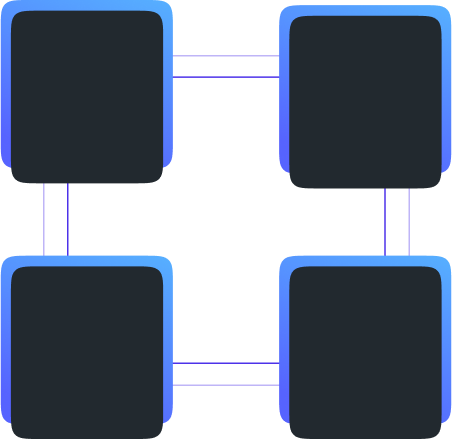
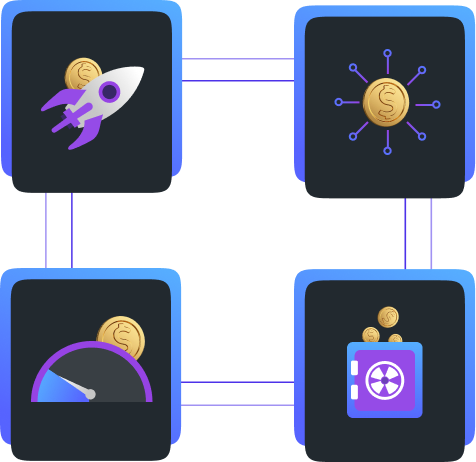
update content and images

diff --git a/homeDemo.html b/homeDemo.html
@@ -310,49 +310,49 @@
        <div class="gateWay_flex">
          <div class="gateWay_flex_inner">
              <div>
-              <div class="gateWay_flex_inner_header_18">Mobile Gateway to DeFi Investment</div>
-              <div class="line_height_25">Explore top crypto assets and find the best DeFi opportunities aggregated through one easy-to-use interface</div>
+              <div class="gateWay_flex_inner_header_16">One stop solution for DeFi investment</div>
+              <div class="line_height_25">Explore top crypto assets and find  best DeFi opportunities aggregated through one easy-to-use interface</div>
              </div>
              <div class="mt_80">
-              <div class="gateWay_flex_inner_header_18">Educated & Risk Assesed Positions </div>
-              <div class="line_height_25">With an in-app guide, take educated yield-farming decisions with facts and strategy mechanics explained.</div>
+              <div class="gateWay_flex_inner_header_16">Educated & risk-assesed positions </div>
+              <div class="line_height_25">With the in-app guide, take educated yield-farming decisions with strategy mechanicm and risks explained</div>
              </div>
          </div>
          <div class="gateWay_flex_inner"><img src="assets/images/mobile_gateway.png"></div>
          <div class="gateWay_flex_inner">
           <div>
-            <div class="gateWay_flex_inner_header_18">Marketplace for advance strategies</div>
+            <div class="gateWay_flex_inner_header_16">Marketplace for advance strategies</div>
             <div class="line_height_25">A marketplace for advanced algorithms operating cross-chain to unleash the true potential of yield farming.</div>
            </div>
            <div class="mt_80">
-            <div class="gateWay_flex_inner_header_18">Your funds always in your control </div>
-            <div class="line_height_25">Keep full custody of your cryptos even when generating yield; censorship-resistant and free of custodian mishaps.</div>
+            <div class="gateWay_flex_inner_header_16">Bridging to DeFi safely and seamlessly</div>
+            <div class="line_height_25">With vetted protocols, biometric auto-recovery wallet, built-in fiat ramp & cross-chain asset swaps; it is DeFi minus complexity</div>
            </div>
         </div>
        </div>
        <div class="gateWay_flex_mobile">
           <div class="gateWay_flex_mobile_inner mb-5">
             <div class="mb-3"><img src="assets/images/mbl_sec_sample.webp" class="wdt_90"></div>
-            <div class="list_header mb-2">Mobile Gateway to DeFi Investment</div>
-            <div>Explore top crypto assets and find the best DeFi opportunities aggregated through one easy-to-use interface.
+            <div class="list_header mb-2">One stop solution for DeFi investment</div>
+            <div>Explore top crypto assets and find  best DeFi opportunities aggregated through one easy-to-use interface
             </div>
           </div>
           <div class="gateWay_flex_mobile_inner mb-5">
             <div class="mb-3"><img src="assets/images/mbl_sec_sample.webp" class="wdt_90"></div>
-            <div class="list_header mb-2">Educated & Risk Assesed Positions</div>
-            <div>With an in-app guide, take educated yield-farming decisions with facts and strategy mechanics explained.
+            <div class="list_header mb-2">Educated & risk-assesed positions </div>
+            <div>With the in-app guide, take educated yield-farming decisions with strategy mechanicm and risks explained
             </div>
           </div>
           <div class="gateWay_flex_mobile_inner">
             <div class="mb-3"><img src="assets/images/mbl_sec_sample.webp" class="wdt_90"></div>
             <div class="list_header mb-2">Marketplace for advance strategies</div>
-            <div>A marketplace for advanced algorithms operating cross-chain to unleash the true potential of yield farming.
+            <div>A marketplace for advanced algorithms operating cross-chain to unleash the true potential of yield farming
             </div>
           </div>
           <div class="gateWay_flex_mobile_inner">
             <div class="mb-3"><img src="assets/images/mbl_sec_sample.webp" class="wdt_90"></div>
-            <div class="list_header mb-2">Your funds always in your control</div>
-            <div>Keep full custody of your cryptos even when generating yield; censorship-resistant and free of custodian mishaps.
+            <div class="list_header mb-2">Bridging to DeFi safely and seamlessly</div>
+            <div>With vetted protocols, biometric auto-recovery wallet, built-in fiat ramp & cross-chain asset swaps; it is DeFi minus complexity
             </div>
           </div>
        </div>
@@ -362,7 +362,7 @@
 
     
     <!-- START SECTION SERVICES -->
-    <section id="investment">
+    <section id="investment" class="mt_100">
       <div class="custom-container">
         <!-- <div class="header_txt text-center">
           DeFi investment accessible to all
@@ -379,9 +379,9 @@
             <div>
               <div class="list_inner">
                 <div>
-                  <div class="section_subheader mb-2">Earn up to 21% on stablecoins</div>
+                  <div class="section_subheader mb-2">Earn up to 21% APY on your stablecoins</div>
                   <div class="mb-4">
-                    Maximize your return on stablecoins with advanced yield strategies. Withdraw anytime to your bank account.
+                    Maximize your return on stablecoins (USDT & USDC) with advanced yield strategies. Withdraw anytime to your bank account.
                   </div>
                   <div class="button_align">
                 
@@ -394,9 +394,8 @@
             </div>
           </div>
           <div class="col-lg-6 col-md-12 col-sm-12">
-            <div class="text-center">
-              <img
-                class="abt_img"
+            <div class="text-right">
+              <img class="aboutimg2"
                 src="assets/images/about_img2.png"
                 alt="aboutimg2"
               />
@@ -411,7 +410,7 @@
     <section id="investment">
       <div class="custom-container">
         <div class="section_subheader text-center section_subheader_res mb_100">
-          Simple Solution, Higher Returns
+          Upcoming Offerings
         </div>
         <div class="slnc_mobile">
           <div class="row align-items-center product_listing_backgrnd mb_100">
@@ -419,8 +418,8 @@
               <div>
                 <div class="product_list_inner">
                   <div>
-                    <div class="mb-2 gradient_txt"><span class="section_subheader">RAFT</span><span class="list_header ml-3">Crypto Wallet and Yield Protocols Marketplace</span></div>
-                    <div class="mb-2">
+                    <div class="mb-2 gradient_txt"><span class="section_subheader">RIVERA</span><span class="list_header ml-3">Crypto Wallet &  Strategy Marketplace</span></div>
+                    <div class="mb-2 offr_height_clor">
                       An intutive crypto wallet with marketplace for vetted DeFi protocols & yield strategies. Secure non-custodial wallet with biometric activated auto-recovery.
                     </div>
                   </div>
@@ -430,7 +429,7 @@
             <div class="col-lg-5 col-md-12 col-sm-12">
               <div class="text-right">
                 <img
-                  src="assets/images/sample_product.svg"
+                  src="assets/images/offer1.png"
                   alt="aboutimg2" class="product_listing_backgrnd_img"
                 />
               </div>
@@ -442,8 +441,8 @@
             <div>
               <div class="product_list_inner">
                 <div>
-                  <div class="mb-2 gradient_txt"><span class="section_subheader">SAILOR</span><span class="list_header ml-3">Rivera Native Investment Strategy Protocol</span></div>
-                  <div class="mb-2">
+                  <div class="mb-2 gradient_txt"><span class="section_subheader">SEAL</span><span class="list_header ml-3">Cross-chain Yield Farming Protocol</span></div>
+                  <div class="mb-2 offr_height_clor">
                     Earn industry-leading APY on your crypto holdings with our risk-assessed native investment protocol built with combinations of DeFi yield strategies.
                   </div>
                 </div>
@@ -453,7 +452,7 @@
           <div class="col-lg-5 col-md-12 col-sm-12">
             <div class="text-right">
               <img
-                src="assets/images/sample_product.svg"
+                src="assets/images/offer2.png"
                 alt="aboutimg2" class="product_listing_backgrnd_img"
               />
             </div>
@@ -465,9 +464,9 @@
           <div>
             <div class="product_list_inner">
               <div>
-                <div class="mb-2 gradient_txt"><span class="section_subheader">EDGE </span><span class="list_header ml-3">Cross Chain Strategy Development Infrastructure</span></div>
-                <div class="mb-2">
-                  SDK and UI toolkit for fund managers to build cross-chain investment flows for listed crypto assets leveraging Rivera approved DeFi protocols.
+                <div class="mb-2 gradient_txt"><span class="section_subheader">REEF </span><span class="list_header ml-3">Deep Liquidity Lending Protocol </span></div>
+                <div class="mb-2 offr_height_clor">
+                  Enable deep liquidity for your investments. Take loans in a wide range of crypto and synthetic assets without exiting your positions. 
                 </div>
               </div>
             </div>
@@ -476,7 +475,7 @@
         <div class="col-lg-5 col-md-12 col-sm-12">
           <div class="text-right">
             <img
-              src="assets/images/sample_product.svg"
+              src="assets/images/offer3.png"
               alt="aboutimg2" class="product_listing_backgrnd_img"
             />
           </div>
@@ -485,21 +484,21 @@
   </div>
     <div class="gateWay_flex_mobile">
       <div class="gateWay_flex_mobile_inner mb-5">
-        <div class="mb-3 sl_img_pddng"><img src="assets/images/product_back_mobile.webp"></div>
+        <div class="mb-3 sl_img_pddng"><img src="assets/images/offer1.png"></div>
         <div class="list_header mb-1">RAFT</div>
         <div class="list_header mb-2">Crypto Wallet and Yield Strategy Marketplace</div>
         <div>An intutive crypto wallet with marketplace for vetted DeFi protocols & yield strategies. Secure non-custodial wallet with biometric activated auto-recovery.
         </div>
       </div>
       <div class="gateWay_flex_mobile_inner mb-5">
-        <div class="mb-3 sl_img_pddng"><img src="assets/images/product_back_mobile.webp"></div>
+        <div class="mb-3 sl_img_pddng"><img src="assets/images/offer2.png"></div>
         <div class="list_header mb-1">SAILOR</div>
         <div class="list_header mb-2">Rivera Native Investment Strategy Protocol</div>
         <div>Earn industry-leading APY on your crypto holdings with our risk-assessed native investment protocol built with combinations of DeFi yield strategies.
         </div>
       </div>
       <div class="gateWay_flex_mobile_inner">
-        <div class="mb-3 sl_img_pddng"><img src="assets/images/product_back_mobile.webp"></div>
+        <div class="mb-3 sl_img_pddng"><img src="assets/images/offer3.png"></div>
         <div class="list_header mb-1">EDGE</div>
         <div class="list_header mb-2">Cross Chain Strategy Development Infrastructure</div>
         <div>SDK and UI toolkit for fund managers to build cross-chain investment flows for listed crypto assets leveraging Rivera approved DeFi protocols.
@@ -1371,7 +1370,7 @@ We are building an all-in-one mobile app for all your DeFi needs.
                 Community Building App <br> Launching Soon!
               </div>
               <div class="mt-4 mb_15_res">
-                Signup for our beta to get early access and exclusive rewards.
+                A custodial crypto wallet and strategy marketplace to earn up to 21% yields on your stablecoin. Signup for early access and get exclusive rewards.
               </div>
             </div>
             <div class="col-lg-6 col-md-12 col-sm-12">
@@ -1416,13 +1415,13 @@ We are building an all-in-one mobile app for all your DeFi needs.
             <div class="col-md-6 mb_20_res">
               <div class="earlyAccess_black">
                 <div class="mr-2"> <img src="assets/images/circle_green.png" class="ern_img"></div>
-                <div class="txt_wht">Start earning daily interests with as little as $100!</div>
+                <div class="txt_wht">Earn up to 100% bonus APY in SHELL (Rivera Token) for all your investments</div>
               </div>
             </div>
             <div class="col-md-6">
               <div class="earlyAccess_black">
                 <div class="mr-2"> <img src="assets/images/circle_green.png" class="ern_img"></div>
-                <div class="txt_wht">Exit anytime and liquidate your assets easily.</div>
+                <div class="txt_wht">Get access to exclusive airdrops, community meet-ups, and free merchandise</div>
                
               </div>
             </div>

diff --git a/assets/css/style.css b/assets/css/style.css
@@ -7891,7 +7891,7 @@ span.statcounter {
 .investment_backgrnd {
   background: linear-gradient(120.36deg, #22292e 59.96%, #251a43 92.02%);
   border-radius: 47px;
-  padding: 50px;
+  padding: 0px 50px 0px 50px;
 }
 .linear_back {
   border-radius: 52px;
@@ -8176,7 +8176,7 @@ html.w-mod-touch * {
 }
 
 .section_subheader {
-  font-size: 36px;
+  font-size: 30px;
   font-weight: bold;
   color: white;
   line-height: 50px;
@@ -8186,7 +8186,7 @@ html.w-mod-touch * {
   background: #2c353d;
   padding: 30px;
   border-radius: 20px;
-  width: 90%;
+  width: 92%;
   display: flex;
 }
 
@@ -8234,8 +8234,8 @@ html.w-mod-touch * {
   /* width: 70%;
   margin-top: -50px; */
   /* height: 200px; */
-  width: 300px;
-  margin-top: -50px;
+  width: 255px;
+  margin-top: -20px;
 }
 .mb_100{
  margin-bottom: 100px;
@@ -8258,9 +8258,21 @@ html.w-mod-touch * {
  .line_height_25{
   line-height: 25px;
  }
+ .offr_height_clor{
+   line-height: 25px;
+   color: white;
+ }
  .gateWay_flex_inner_header_18{
    font-size: 18px;
    color: white;
+ }
+ .gateWay_flex_inner_header_16{
+  font-size: 16px;
+  color: white;
+}
+ .aboutimg2{
+  margin-top: -125px;
+  width: 280px;
  }
 @supports (animation-timeline: works) {
   @scroll-timeline cards-element-scrolls-in-body {
